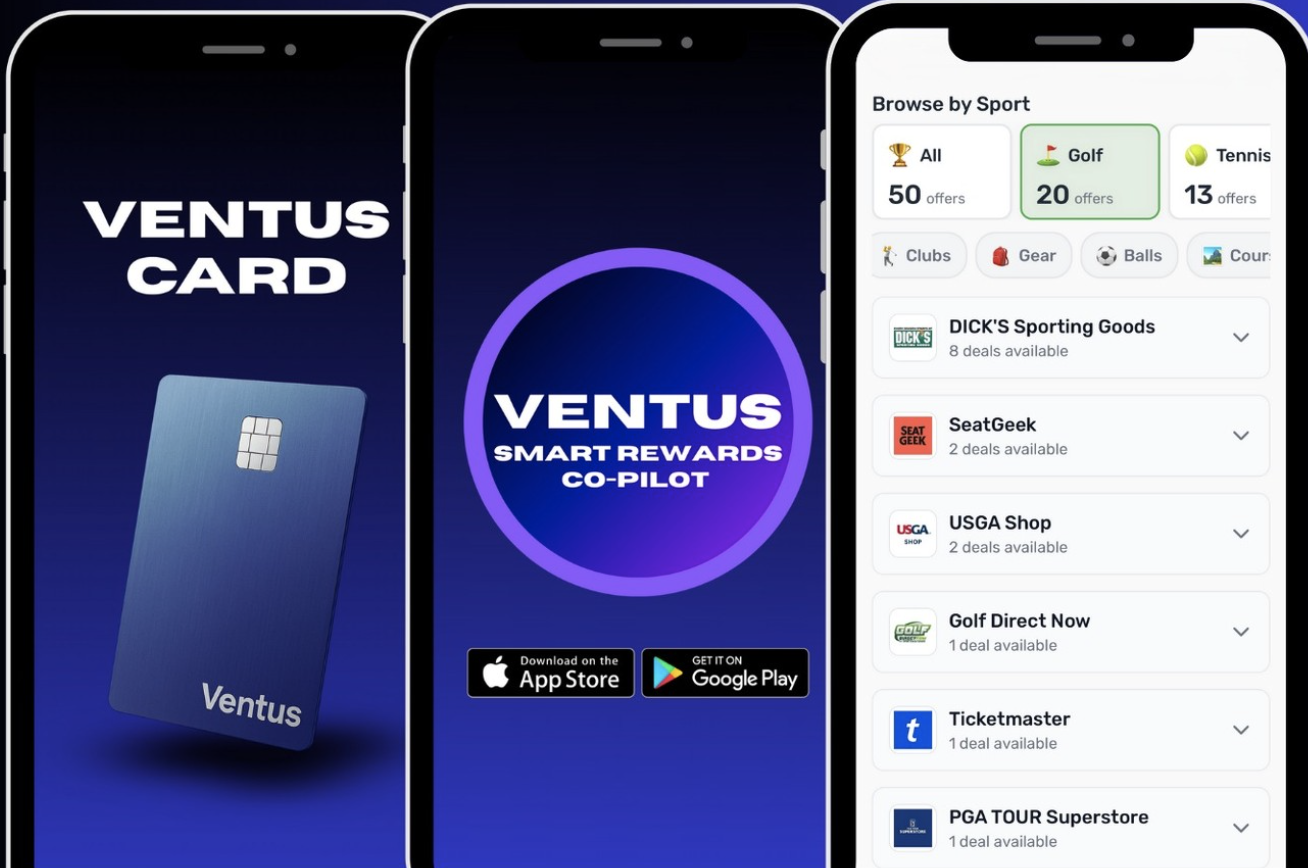
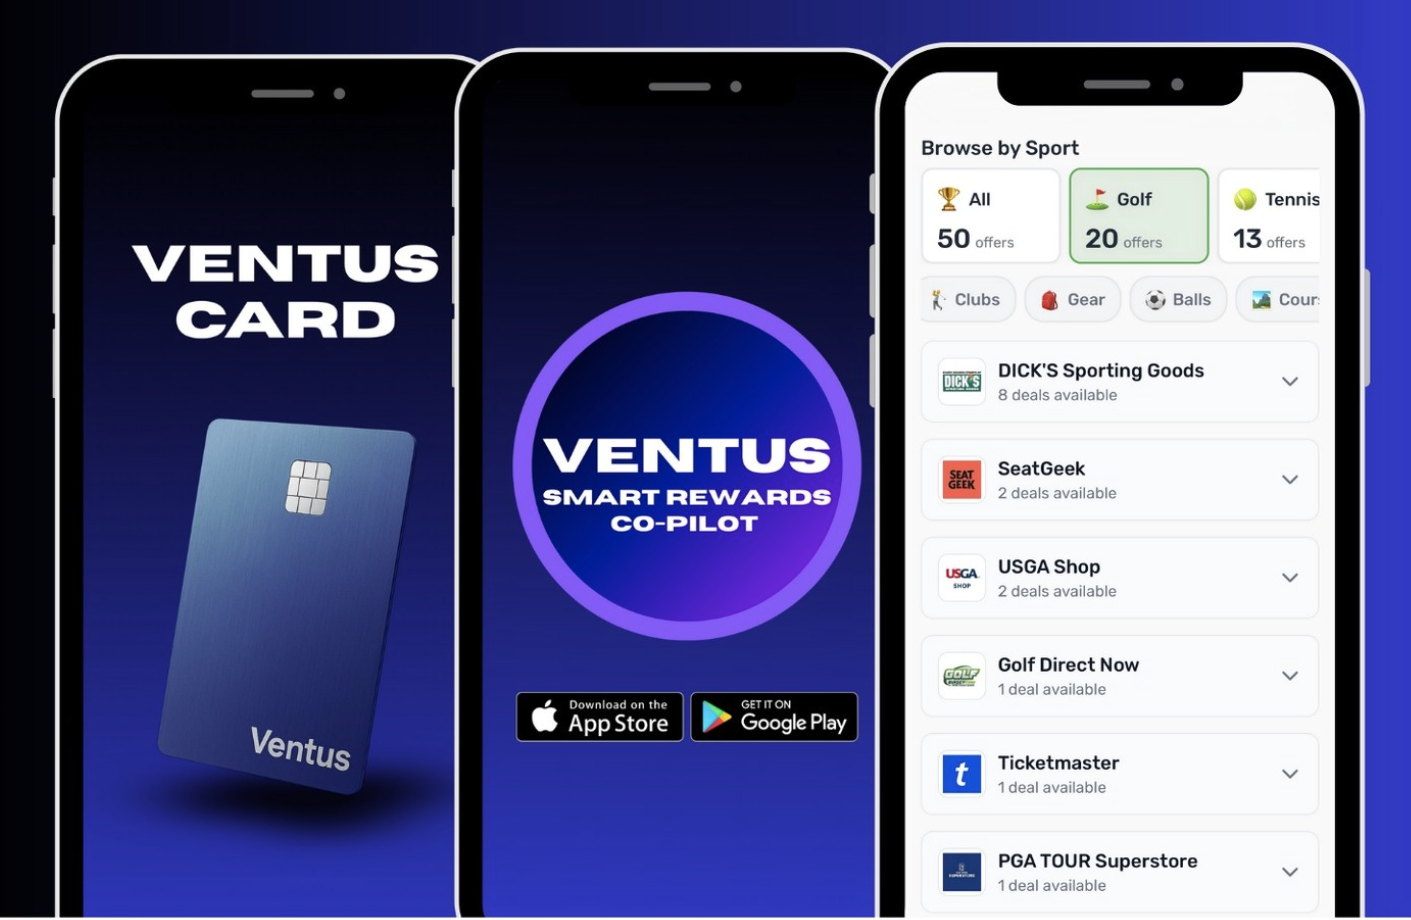
Changes

diff --git a/src/pages/AppDownload.tsx b/src/pages/AppDownload.tsx
@@ -217,7 +217,7 @@ const AppDownload = () => {
                 <img 
                   src={appScreensPreview} 
                   alt="Ventus App Screenshots" 
-                  className="w-full max-w-xl lg:max-w-2xl h-auto object-contain"
+                  className="w-full max-w-2xl lg:max-w-3xl h-auto object-contain"
                 />
               </div>
             </div>
